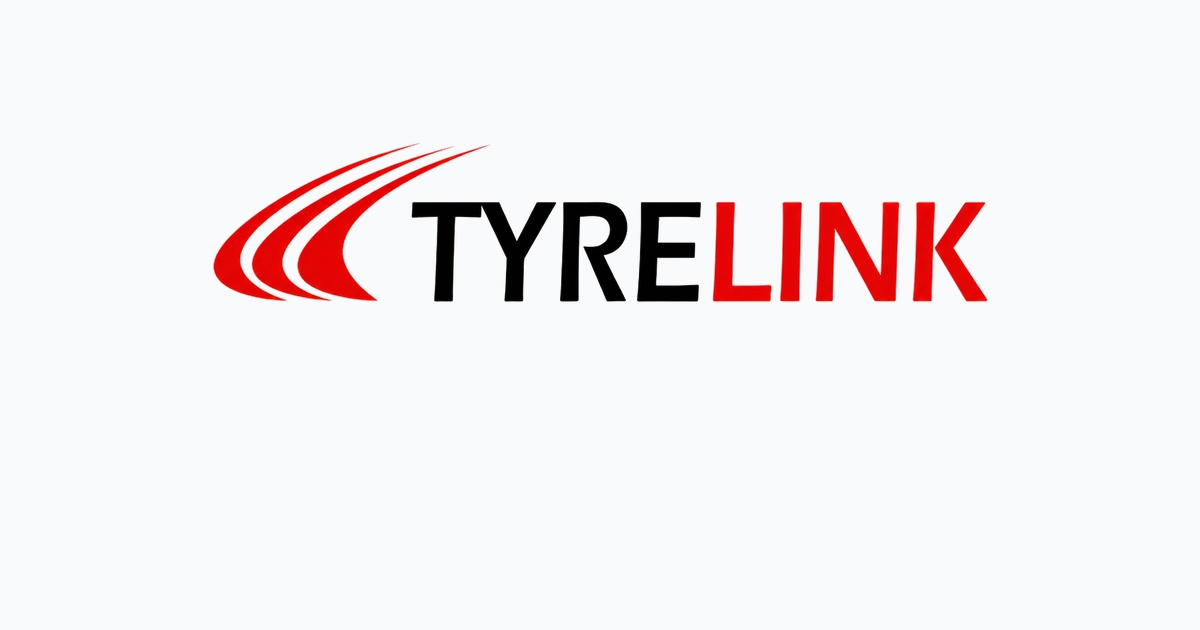
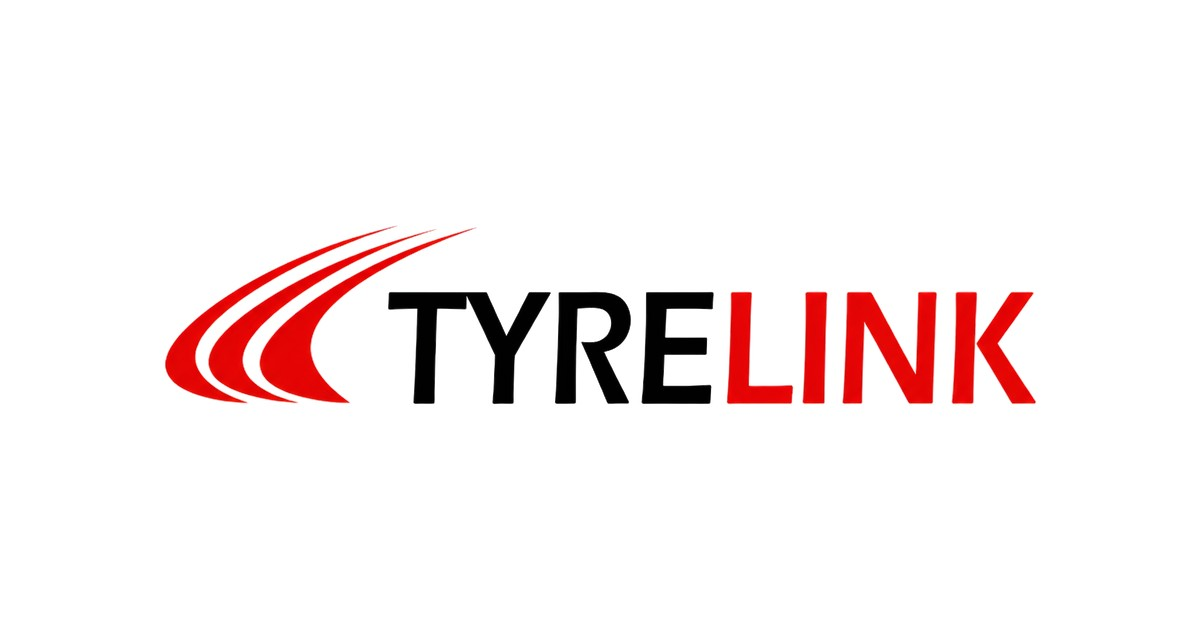
Optimize WhatsApp preview image and Open Graph metadata

Changed region(s): [[0.1233, 0.2413, 0.8633, 0.6635]]

diff --git a/index.html b/index.html
@@ -4,35 +4,38 @@
   <meta charset="UTF-8" />
   <meta name="viewport" content="width=device-width, initial-scale=1.0, maximum-scale=1.0, user-scalable=no" />
   <title>TyreLink - Coming Soon | www.tyrelink.lk</title>
-  <meta name="description" content="TyreLink PVT (LTD) - Sri Lanka's upcoming premier tyre marketplace and automotive solutions. Website launching soon." />
+  <meta name="description" content="TyreLink PVT (LTD) - Sri Lanka's premier tyre marketplace. Launching soon." />
 
   <!-- Favicon for Browser Tabs -->
-  <link rel="icon" type="image/png" sizes="32x32" href="favicon-32x32.png?v=3" />
-  <link rel="icon" type="image/x-icon" href="favicon.ico?v=3" />
-  <link rel="apple-touch-icon" sizes="192x192" href="favicon-192x192.png?v=3" />
+  <link rel="icon" type="image/png" sizes="32x32" href="favicon-32x32.png?v=4" />
+  <link rel="icon" type="image/x-icon" href="favicon.ico?v=4" />
+  <link rel="apple-touch-icon" sizes="192x192" href="favicon-192x192.png?v=4" />
 
-  <!-- Open Graph & WhatsApp / Facebook Preview Meta Tags -->
+  <!-- Open Graph & WhatsApp Preview Tags (Exact WhatsApp Spec) -->
   <meta property="og:type" content="website" />
+  <meta property="og:site_name" content="TyreLink Sri Lanka" />
   <meta property="og:url" content="https://tyrelink.lk/" />
-  <meta property="og:title" content="TyreLink Sri Lanka - Coming Soon" />
-  <meta property="og:description" content="Official website of TyreLink PVT (LTD). We are launching soon with genuine tyres, tubes, batteries & automotive accessories across Sri Lanka." />
-  <meta property="og:image" content="https://tyrelink.lk/og-image.jpg?v=3" />
-  <meta property="og:image:width" content="1200" />
-  <meta property="og:image:height" content="630" />
-  <meta property="og:site_name" content="TyreLink" />
+  <meta property="og:title" content="TyreLink - Coming Soon" />
+  <meta property="og:description" content="TyreLink PVT (LTD) Sri Lanka is launching soon. Tyres, Tubes, Batteries & Automotive Solutions." />
+  <meta property="og:image" content="https://tyrelink.lk/whatsapp-card.jpg" />
+  <meta property="og:image:secure_url" content="https://tyrelink.lk/whatsapp-card.jpg" />
+  <meta property="og:image:type" content="image/jpeg" />
+  <meta property="og:image:width" content="600" />
+  <meta property="og:image:height" content="315" />
+  <meta property="og:image:alt" content="TyreLink Sri Lanka" />
 
   <!-- Twitter Card -->
   <meta name="twitter:card" content="summary_large_image" />
-  <meta name="twitter:title" content="TyreLink Sri Lanka - Coming Soon" />
-  <meta name="twitter:description" content="TyreLink PVT (LTD) - Sri Lanka. Coming Soon." />
-  <meta name="twitter:image" content="https://tyrelink.lk/og-image.jpg?v=3" />
+  <meta name="twitter:title" content="TyreLink - Coming Soon" />
+  <meta name="twitter:description" content="TyreLink PVT (LTD) Sri Lanka. Coming Soon." />
+  <meta name="twitter:image" content="https://tyrelink.lk/whatsapp-card.jpg" />
 
   <!-- Google Font: Montserrat -->
   <link rel="preconnect" href="https://fonts.googleapis.com" />
   <link rel="preconnect" href="https://fonts.gstatic.com" crossorigin />
   <link href="https://fonts.googleapis.com/css2?family=Montserrat:wght@700;800;900&display=swap" rel="stylesheet" />
 
-  <!-- Versioned Stylesheet to break Cloudflare & Browser Caching -->
+  <!-- Stylesheet -->
   <link rel="stylesheet" href="style.css?v=3.0" />
 </head>
 <body>
@@ -51,7 +54,7 @@
     <div class="glass-card">
       <div class="glass-reflection"></div>
       
-      <!-- Official TyreLink Logo (Big, Crisp, Responsive) -->
+      <!-- Official TyreLink Logo -->
       <div class="logo-box">
         <picture>
           <source srcset="tyrelink-logo.webp" type="image/webp" />
